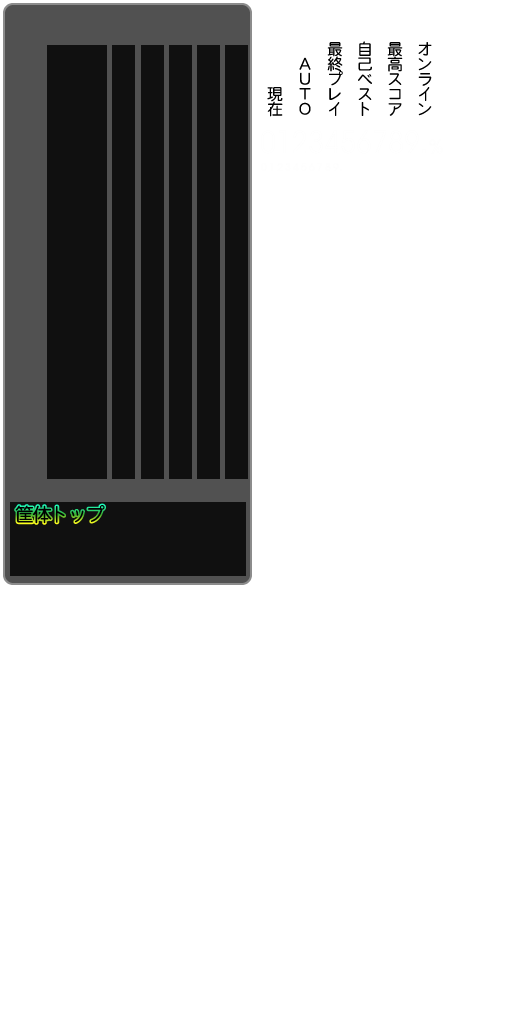
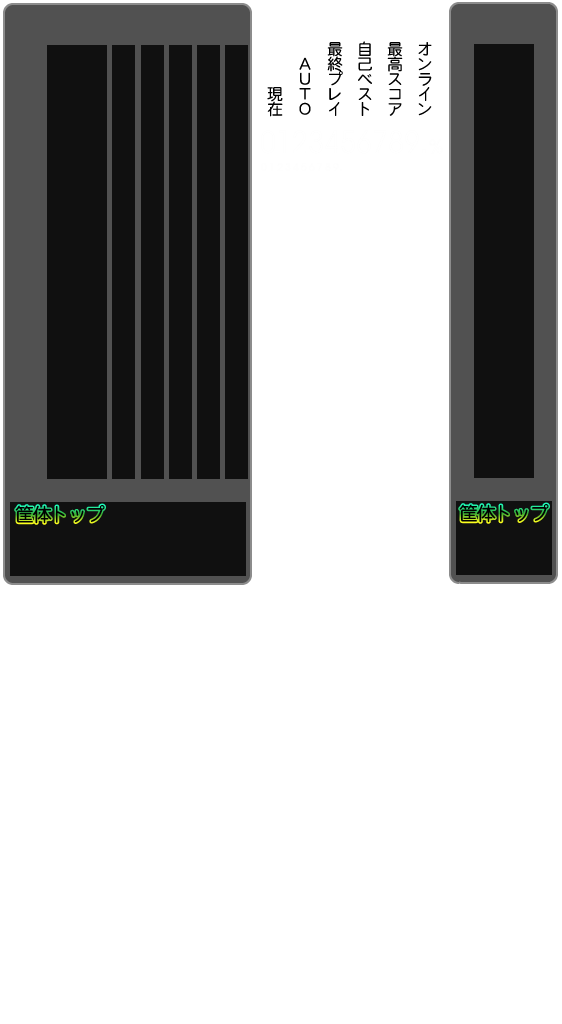
If SmallGraph=1 is set in config.ini, a small version of the Graph (=target ghost) will be displayed, which doesn't hide current combo.

Changed region(s): [[0.0, 0.0, 1.0, 0.5938]]

diff --git a/DTXManiaProject/Code/Stage/07.Performance/CActPerfSkillMeter.cs b/DTXManiaProject/Code/Stage/07.Performance/CActPerfSkillMeter.cs
@@ -152,7 +152,7 @@ namespace DTXMania
                             this.nPart = 0;
                     }
 
-                    this.nGraphBG_XPos.Drums = 870;
+                    this.nGraphBG_XPos.Drums = (CDTXMania.ConfigIni.bSmallGraph ? 858 : 870);
                     this.nGraphBG_XPos.Guitar = 356;
                     this.nGraphBG_XPos.Bass = 647;
                     this.nGraphBG_YPos = this.nGraphUsePart == 0 ? 50 : 110;
@@ -185,47 +185,56 @@ namespace DTXMania
                 {
                     //背景
 					this.txグラフ.vcScaleRatio = new Vector3( 1f, 1f, 1f );
-                    this.txグラフ.tDraw2D( CDTXMania.app.Device, nGraphBG_XPos[ this.nGraphUsePart ], nGraphBG_YPos, new Rectangle( 2, 2, 251, 584 ) );
+                    if (CDTXMania.ConfigIni.bSmallGraph)
+                    {
+                        this.txグラフ.tDraw2D(CDTXMania.app.Device, nGraphBG_XPos[this.nGraphUsePart], nGraphBG_YPos, new Rectangle(448, 2, 111, 584));
+                    }
+                    else
+                    {
+                        this.txグラフ.tDraw2D(CDTXMania.app.Device, nGraphBG_XPos[this.nGraphUsePart], nGraphBG_YPos, new Rectangle(2, 2, 251, 584));
+                    }
                     
                     //自己ベスト数値表示
                     this.t達成率文字表示( nGraphBG_XPos[ this.nGraphUsePart ] + 136, nGraphBG_YPos + 501, string.Format( "{0,6:##0.00}" + "%", this.dbGraphValue_PersonalBest ) );
                 }
 
                 //ゲージ現在
-				if( this.txグラフ_ゲージ != null )
+                if (this.txグラフ_ゲージ != null)
                 {
                     //ゲージ本体
-                    int nGaugeSize = (int)( 434.0f * (float)this.dbグラフ値現在 / 100.0f );
+                    int nGaugeSize = (int)(434.0f * (float)this.dbグラフ値現在 / 100.0f);
                     int nPosY = this.nGraphUsePart == 0 ? 527 - nGaugeSize : 587 - nGaugeSize;
                     this.txグラフ_ゲージ.nTransparency = 255;
-                    this.txグラフ_ゲージ.tDraw2D( CDTXMania.app.Device, nGraphBG_XPos[ this.nGraphUsePart ] + 45, nPosY, new Rectangle( 2, 2, 30, nGaugeSize ) );
-                    
+                    this.txグラフ_ゲージ.tDraw2D(CDTXMania.app.Device, nGraphBG_XPos[this.nGraphUsePart] + (CDTXMania.ConfigIni.bSmallGraph ? 26 : 45), nPosY, new Rectangle(2, 2, 30, nGaugeSize));
                     //ゲージ比較
                     int nTargetGaugeSize = (int)( 434.0f * ( (float)this.dbグラフ値目標 / 100.0f ) );
                     int nTargetGaugePosY = this.nGraphUsePart == 0 ? 527 - nTargetGaugeSize : 587 - nTargetGaugeSize;
                     int nTargetGaugeRectX = this.dbグラフ値現在 > this.dbグラフ値目標 ? 38 : 74;
                     this.txグラフ_ゲージ.nTransparency = 255;
-                    this.txグラフ_ゲージ.tDraw2D( CDTXMania.app.Device, nGraphBG_XPos[ this.nGraphUsePart ] + 75, nTargetGaugePosY, new Rectangle( nTargetGaugeRectX, 2, 30, nTargetGaugeSize ) );
+                    this.txグラフ_ゲージ.tDraw2D( CDTXMania.app.Device, nGraphBG_XPos[ this.nGraphUsePart ] + (CDTXMania.ConfigIni.bSmallGraph ? 56 : 75), nTargetGaugePosY, new Rectangle( nTargetGaugeRectX, 2, 30, nTargetGaugeSize ) );
                     if( this.txグラフ != null )
                     {
                         //ターゲット達成率数値
 
                         //ターゲット名
                         //現在
-                        this.txグラフ.tDraw2D( CDTXMania.app.Device, nGraphBG_XPos[ this.nGraphUsePart ] + 45, nGraphBG_YPos + 357, new Rectangle( 260, 2, 30, 120 ) );
+                        this.txグラフ.tDraw2D( CDTXMania.app.Device, nGraphBG_XPos[ this.nGraphUsePart ] + (CDTXMania.ConfigIni.bSmallGraph ? 26 : 45), nGraphBG_YPos + 357, new Rectangle( 260, 2, 30, 120 ) );
                         //比較対象
-                        this.txグラフ.tDraw2D( CDTXMania.app.Device, nGraphBG_XPos[ this.nGraphUsePart ] + 75, nGraphBG_YPos + 357, new Rectangle( 260 + ( 30 * ( (int)CDTXMania.ConfigIni.eTargetGhost[ this.nGraphUsePart ] ) ), 2, 30, 120 ) );
+                        this.txグラフ.tDraw2D( CDTXMania.app.Device, nGraphBG_XPos[ this.nGraphUsePart ] + (CDTXMania.ConfigIni.bSmallGraph ? 56 : 75), nGraphBG_YPos + 357, new Rectangle( 260 + ( 30 * ( (int)CDTXMania.ConfigIni.eTargetGhost[ this.nGraphUsePart ] ) ), 2, 30, 120 ) );
 
                         //以下使用予定
-                        //最終プレイ
-                        this.txグラフ.tDraw2D( CDTXMania.app.Device, nGraphBG_XPos[ this.nGraphUsePart ] + 106, nGraphBG_YPos + 357, new Rectangle( 260 + 60, 2, 30, 120 ) );
-                        //自己ベスト
-                        this.txグラフ.tDraw2D( CDTXMania.app.Device, nGraphBG_XPos[ this.nGraphUsePart ] + 136, nGraphBG_YPos + 357, new Rectangle( 260 + 90, 2, 30, 120 ) );
-                        //最高スコア
-                        this.txグラフ.tDraw2D( CDTXMania.app.Device, nGraphBG_XPos[ this.nGraphUsePart ] + 164, nGraphBG_YPos + 357, new Rectangle( 260 + 120, 2, 30, 120 ) );
+                        if (!CDTXMania.ConfigIni.bSmallGraph)
+                        {
+                            //最終プレイ
+                            this.txグラフ.tDraw2D(CDTXMania.app.Device, nGraphBG_XPos[this.nGraphUsePart] + 106, nGraphBG_YPos + 357, new Rectangle(260 + 60, 2, 30, 120));
+                            //自己ベスト
+                            this.txグラフ.tDraw2D(CDTXMania.app.Device, nGraphBG_XPos[this.nGraphUsePart] + 136, nGraphBG_YPos + 357, new Rectangle(260 + 90, 2, 30, 120));
+                            //最高スコア
+                            this.txグラフ.tDraw2D(CDTXMania.app.Device, nGraphBG_XPos[this.nGraphUsePart] + 164, nGraphBG_YPos + 357, new Rectangle(260 + 120, 2, 30, 120));
+                        }
                     }
-                    this.t比較文字表示( nGraphBG_XPos[ this.nGraphUsePart ] + 44, nPosY - 10, string.Format( "{0,5:##0.00}", Math.Abs( this.dbグラフ値現在 ) ) );
-                    this.t比較文字表示( nGraphBG_XPos[ this.nGraphUsePart ] + 74, nTargetGaugePosY - 10, string.Format( "{0,5:##0.00}", Math.Abs( this.dbグラフ値目標 ) ) );
+                    this.t比較文字表示( nGraphBG_XPos[ this.nGraphUsePart ] + (CDTXMania.ConfigIni.bSmallGraph ? 25 : 44), nPosY - 10, string.Format( "{0,5:##0.00}", Math.Abs( this.dbグラフ値現在 ) ) );
+                    this.t比較文字表示( nGraphBG_XPos[ this.nGraphUsePart ] + (CDTXMania.ConfigIni.bSmallGraph ? 55 : 74), nTargetGaugePosY - 10, string.Format( "{0,5:##0.00}", Math.Abs( this.dbグラフ値目標 ) ) );
                 }
 
 

diff --git a/DTXManiaProject/Code/App/CConfigIni.cs b/DTXManiaProject/Code/App/CConfigIni.cs
@@ -577,6 +577,7 @@ namespace DTXMania
 		public STDGBVALUE<bool> bSudden;
 		public bool bTight;
 		public STDGBVALUE<bool> bGraph有効;     // #24074 2011.01.23 add ikanick
+		public bool bSmallGraph;
 		public bool bWave再生位置自動調整機能有効;
 		public bool bシンバルフリー;
 		public bool bストイックモード;
@@ -1880,7 +1881,11 @@ namespace DTXMania
 			sw.WriteLine( "BassGraph={0}", this.bGraph有効.Bass ? 1 : 0 );
 			sw.WriteLine();
 
-            sw.WriteLine( "; ドラムコンボの表示(0:OFF, 1:ON)" );									// #29500 2012.9.11 kairera0467
+			sw.WriteLine("; Small Graph (0:OFF, 1:ON)");
+			sw.WriteLine("SmallGraph={0}", this.bSmallGraph ? 1 : 0);
+			sw.WriteLine();
+
+			sw.WriteLine( "; ドラムコンボの表示(0:OFF, 1:ON)" );									// #29500 2012.9.11 kairera0467
             sw.WriteLine( ": DrumPart Display Combo. 0=OFF, 1=ON " );
             sw.WriteLine( "DrumComboDisp={0}", this.bドラムコンボ文字の表示 ? 1 : 0 );				//
             sw.WriteLine();
@@ -2904,7 +2909,11 @@ namespace DTXMania
 											{
 												this.bGraph有効.Bass = CConversion.bONorOFF( str4[ 0 ] );
 											}
-											else if( str3.Equals( "DrumsReverse" ) )
+											else if (str3.Equals("SmallGraph"))
+											{
+												this.bSmallGraph = CConversion.bONorOFF(str4[0]);
+											}
+											else if ( str3.Equals( "DrumsReverse" ) )
 											{
 												this.bReverse.Drums = CConversion.bONorOFF( str4[ 0 ] );
 											}

diff --git a/DTXManiaProject/Code/Stage/07.Performance/DrumsScreen/CActPerfDrumsComboDGB.cs b/DTXManiaProject/Code/Stage/07.Performance/DrumsScreen/CActPerfDrumsComboDGB.cs
@@ -70,7 +70,12 @@ namespace DTXMania
             bool bass = CDTXMania.DTX.bチップがある.Bass;
 
             if( CDTXMania.ConfigIni.bドラムコンボ文字の表示 )
-                base.tDrawCombo_Drums(nCombo値, nジャンプインデックス, 1245, 60);
+            {
+                if (CDTXMania.ConfigIni.bGraph有効.Drums && CDTXMania.ConfigIni.bSmallGraph)
+                    base.tDrawCombo_Drums(nCombo値, nジャンプインデックス, 1275, 60);
+                else
+                    base.tDrawCombo_Drums(nCombo値, nジャンプインデックス, 1245, 60);
+            }
 
             this.n火薬カウント = (nCombo値 / 100);
 
